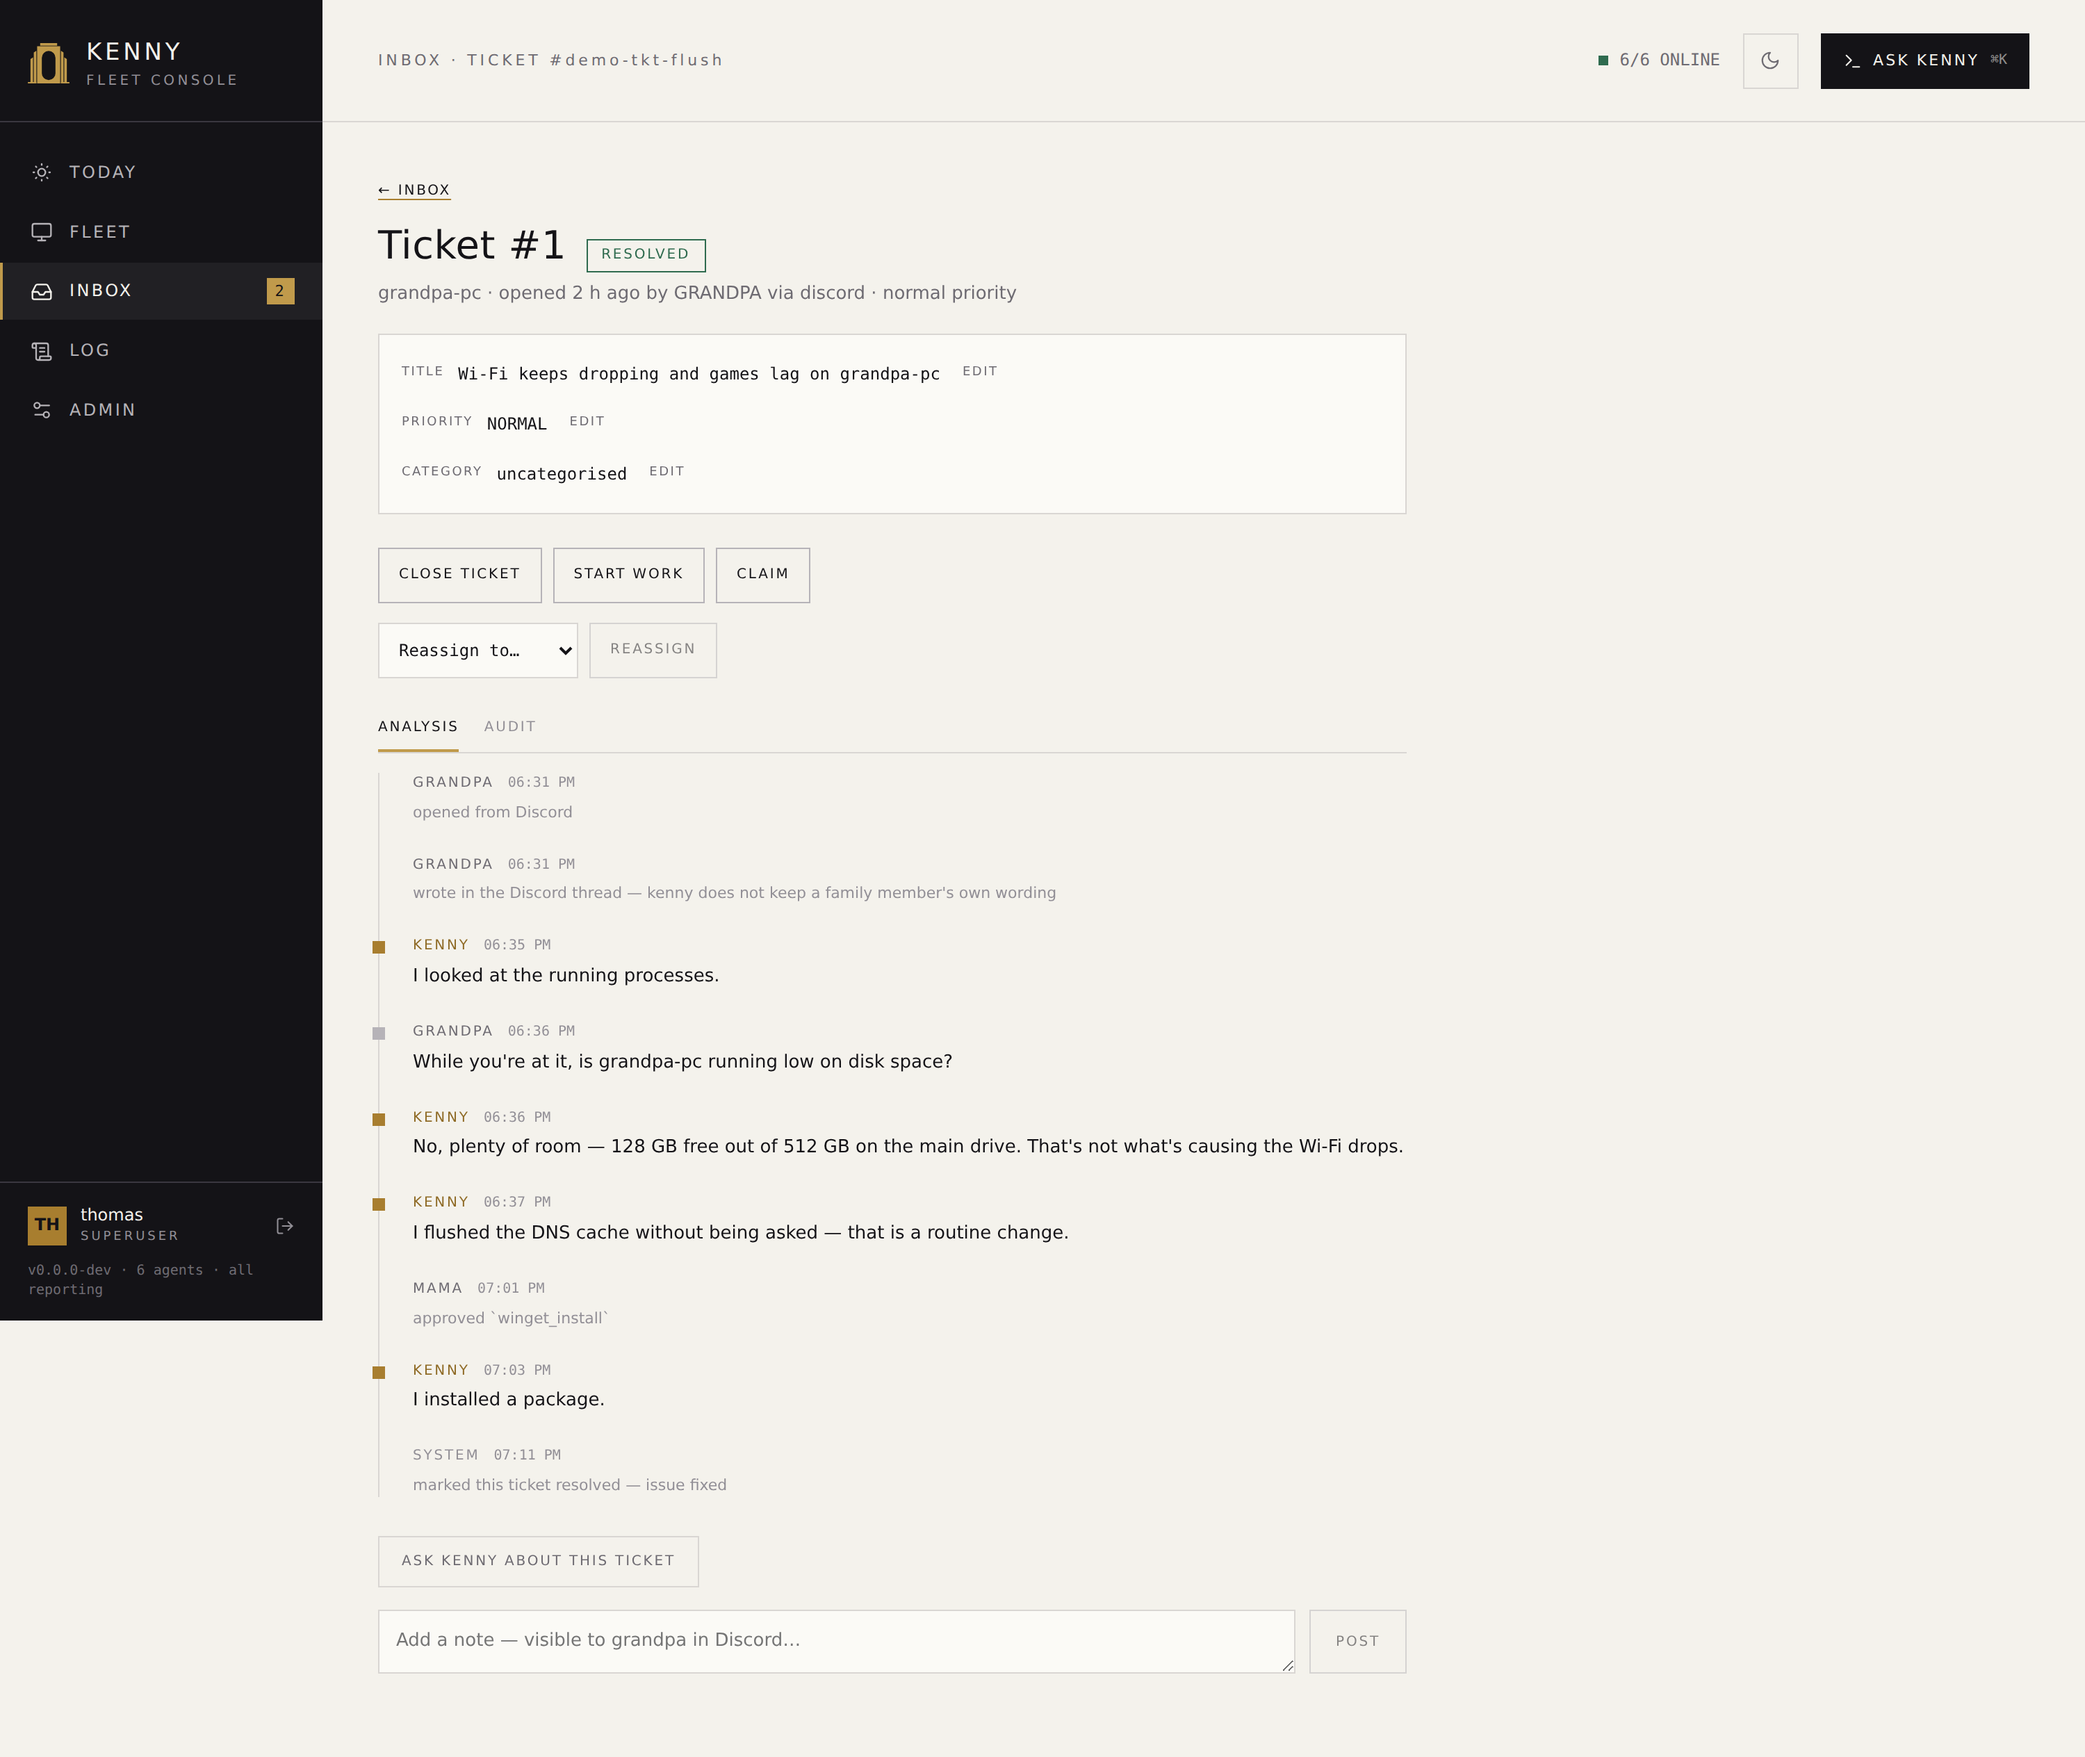
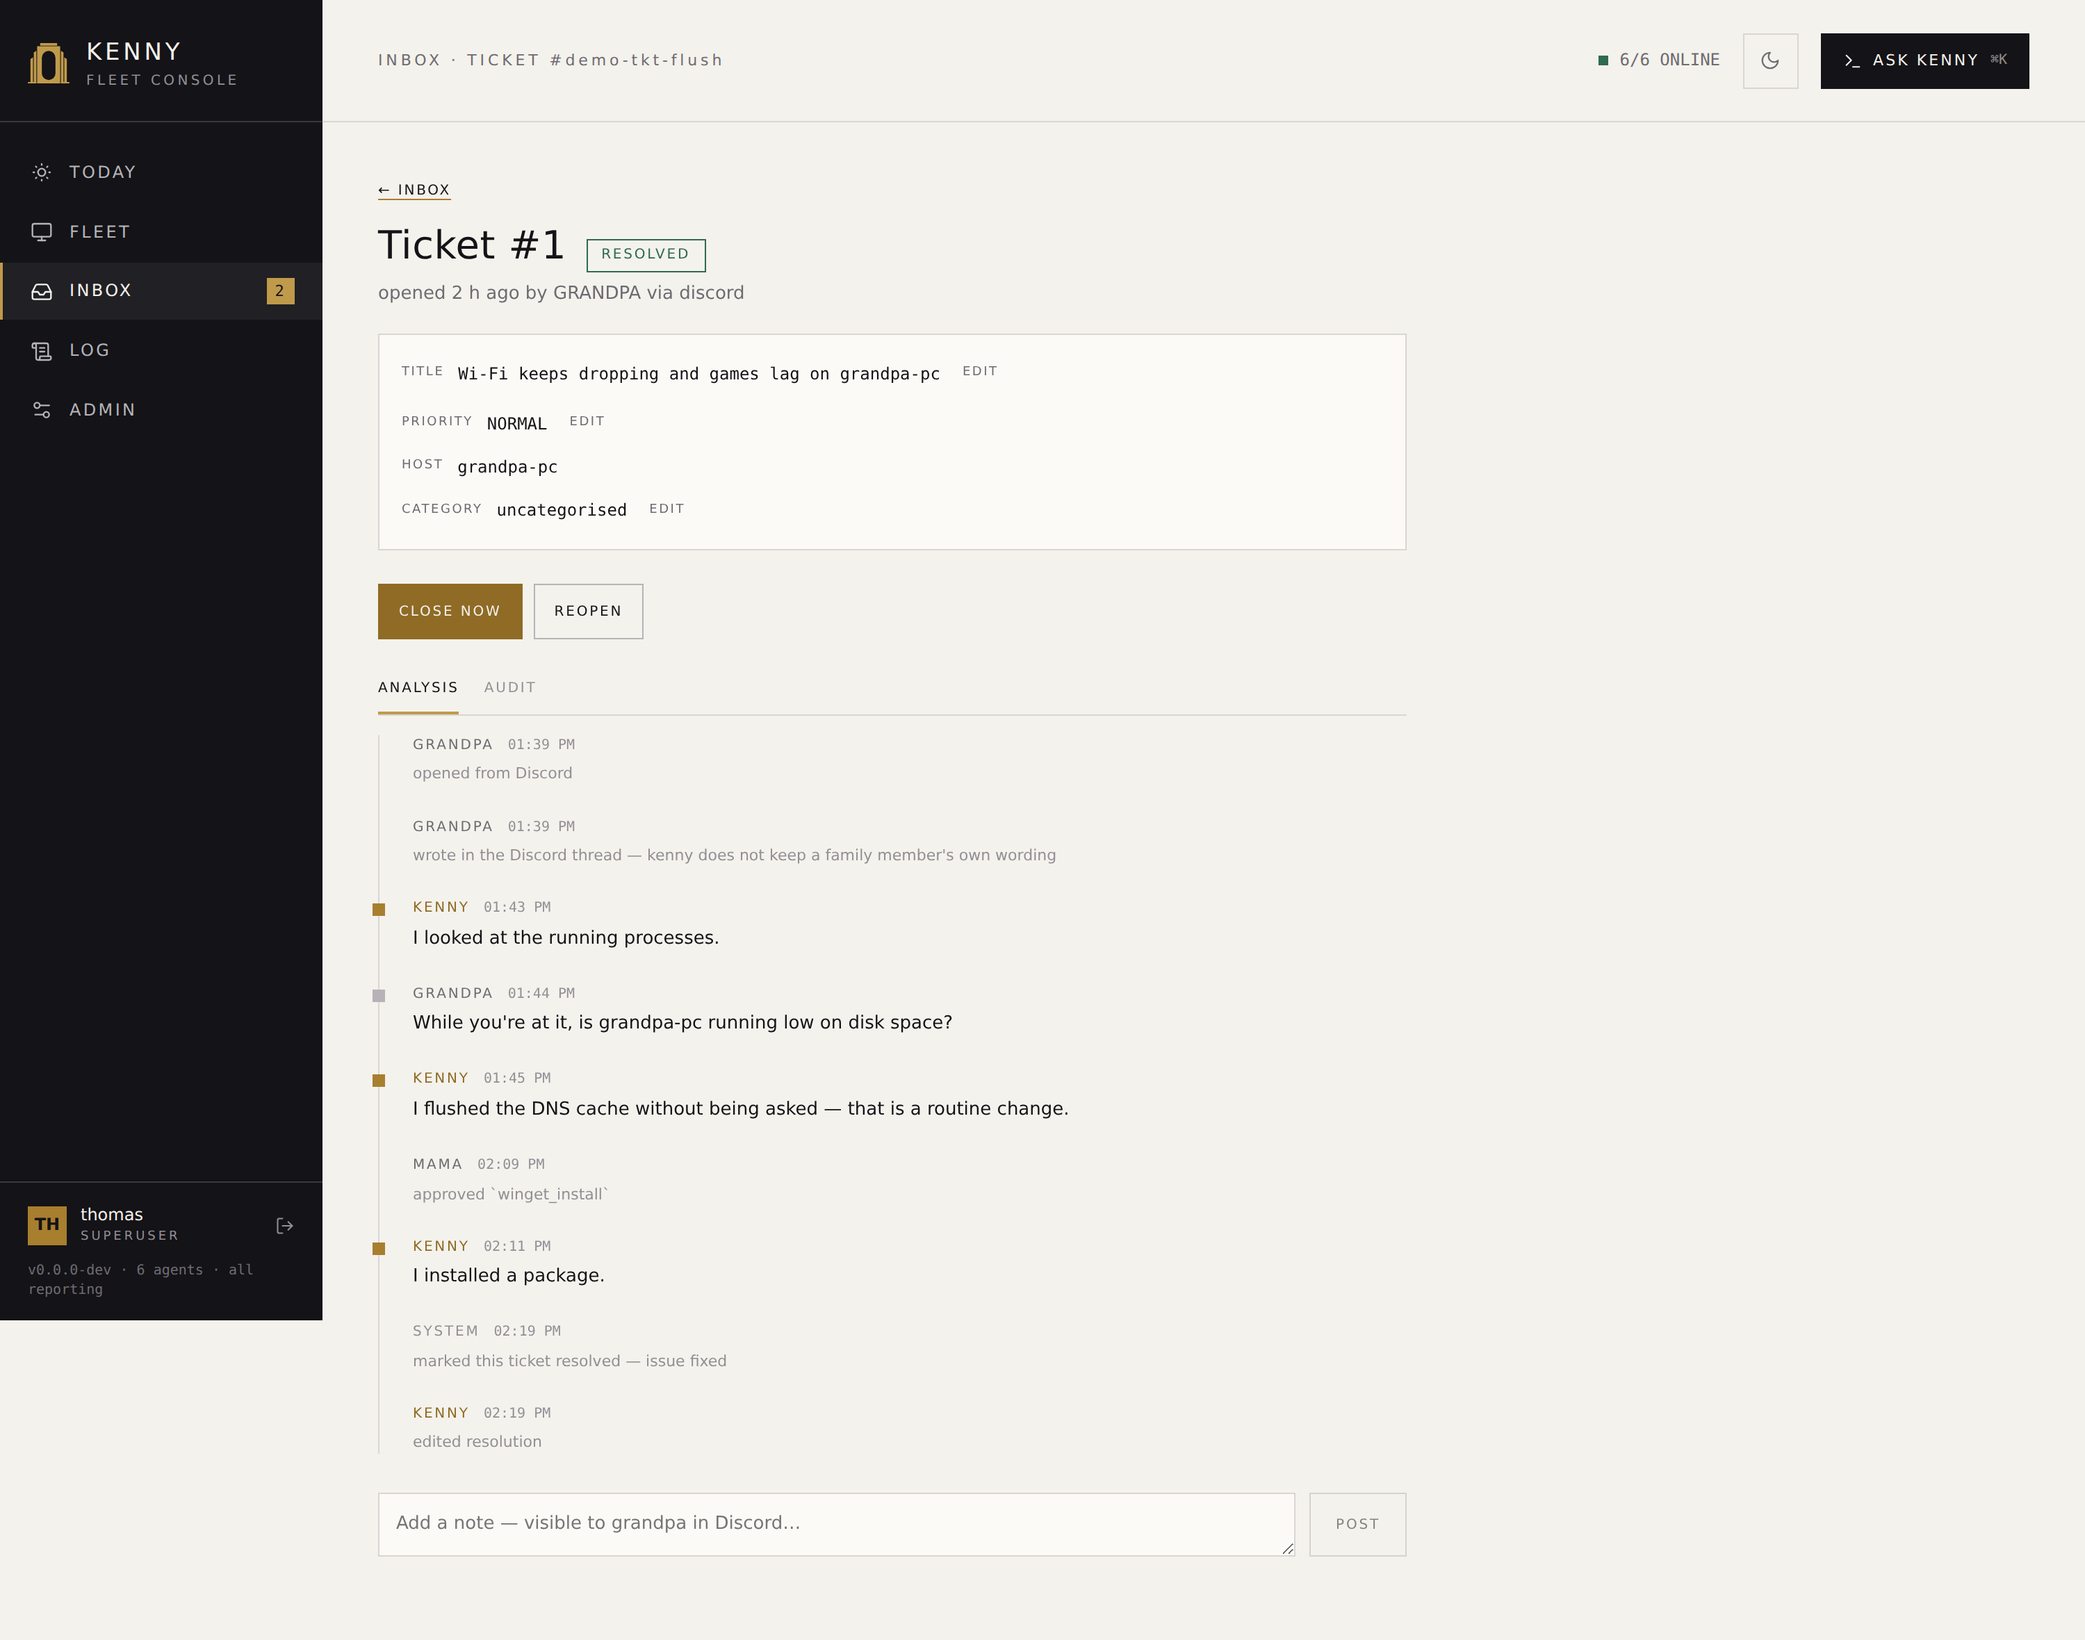
Regenerate the ticket screenshot; record the doc-drift exemption
`docs/assets/screenshots/ticket-detail.png` still showed the seven-button
action row. Recaptured against the mock fleet, so the documented image
matches what the page renders: one primary move, one secondary, the host as
a stated fact rather than a control, and the new `patch` trail row reading
"edited resolution". `inbox.png` was recaptured too and came back
unchanged -- the row wording only differs for a ticket the sweeper dropped,
and the demo fleet has none.

`scripts/screenshots/seed.py` needed the `actor` that `TicketService.update`
now requires. It passes `ASSISTANT_ACTOR`, which is both true (kenny wrote
that resolution) and correct for the activity clock: a machine actor
deliberately does not move `last_human_at`. Its three `block()` calls
already used `actor="system"` and needed nothing.

[skip-doc-drift] for the `account-governance` rule only. It maps every
change to `webui/index.html` onto `docs/account-governance.md`, and the
mapping is file-level: all six hunks in that file are in the ticket panel
(the assignee row, the claim and reassign buttons, the reassign modal, and a
comment on retired event kinds). Nothing touches the `account_*` tools, the
accounts panel, or the `local_accounts`/`logon_failures` sections behind
them, so there is nothing in that reference to bring in line. The other rule
matching the same file, `dashboard-ui`, is genuinely in scope and its doc
was updated in the previous commit.

`mkdocs build --strict` passes.
[…]

diff --git a/scripts/screenshots/seed.py b/scripts/screenshots/seed.py
@@ -448,6 +448,9 @@ async def _seed_tickets(tickets: Any, base: datetime, user_ids: dict[str, int]) 
         await tickets.transition(flush.id, "resolved", actor="system", reason="issue fixed")
         await tickets.update(
             flush.id,
+            # The assistant wrote this resolution, so the patch row says so --
+            # and a machine actor deliberately does not move last_human_at.
+            actor=ASSISTANT_ACTOR,
             resolution="Updated the Wi-Fi driver; grandpa-pc now holds a stable connection.",
         )
 
